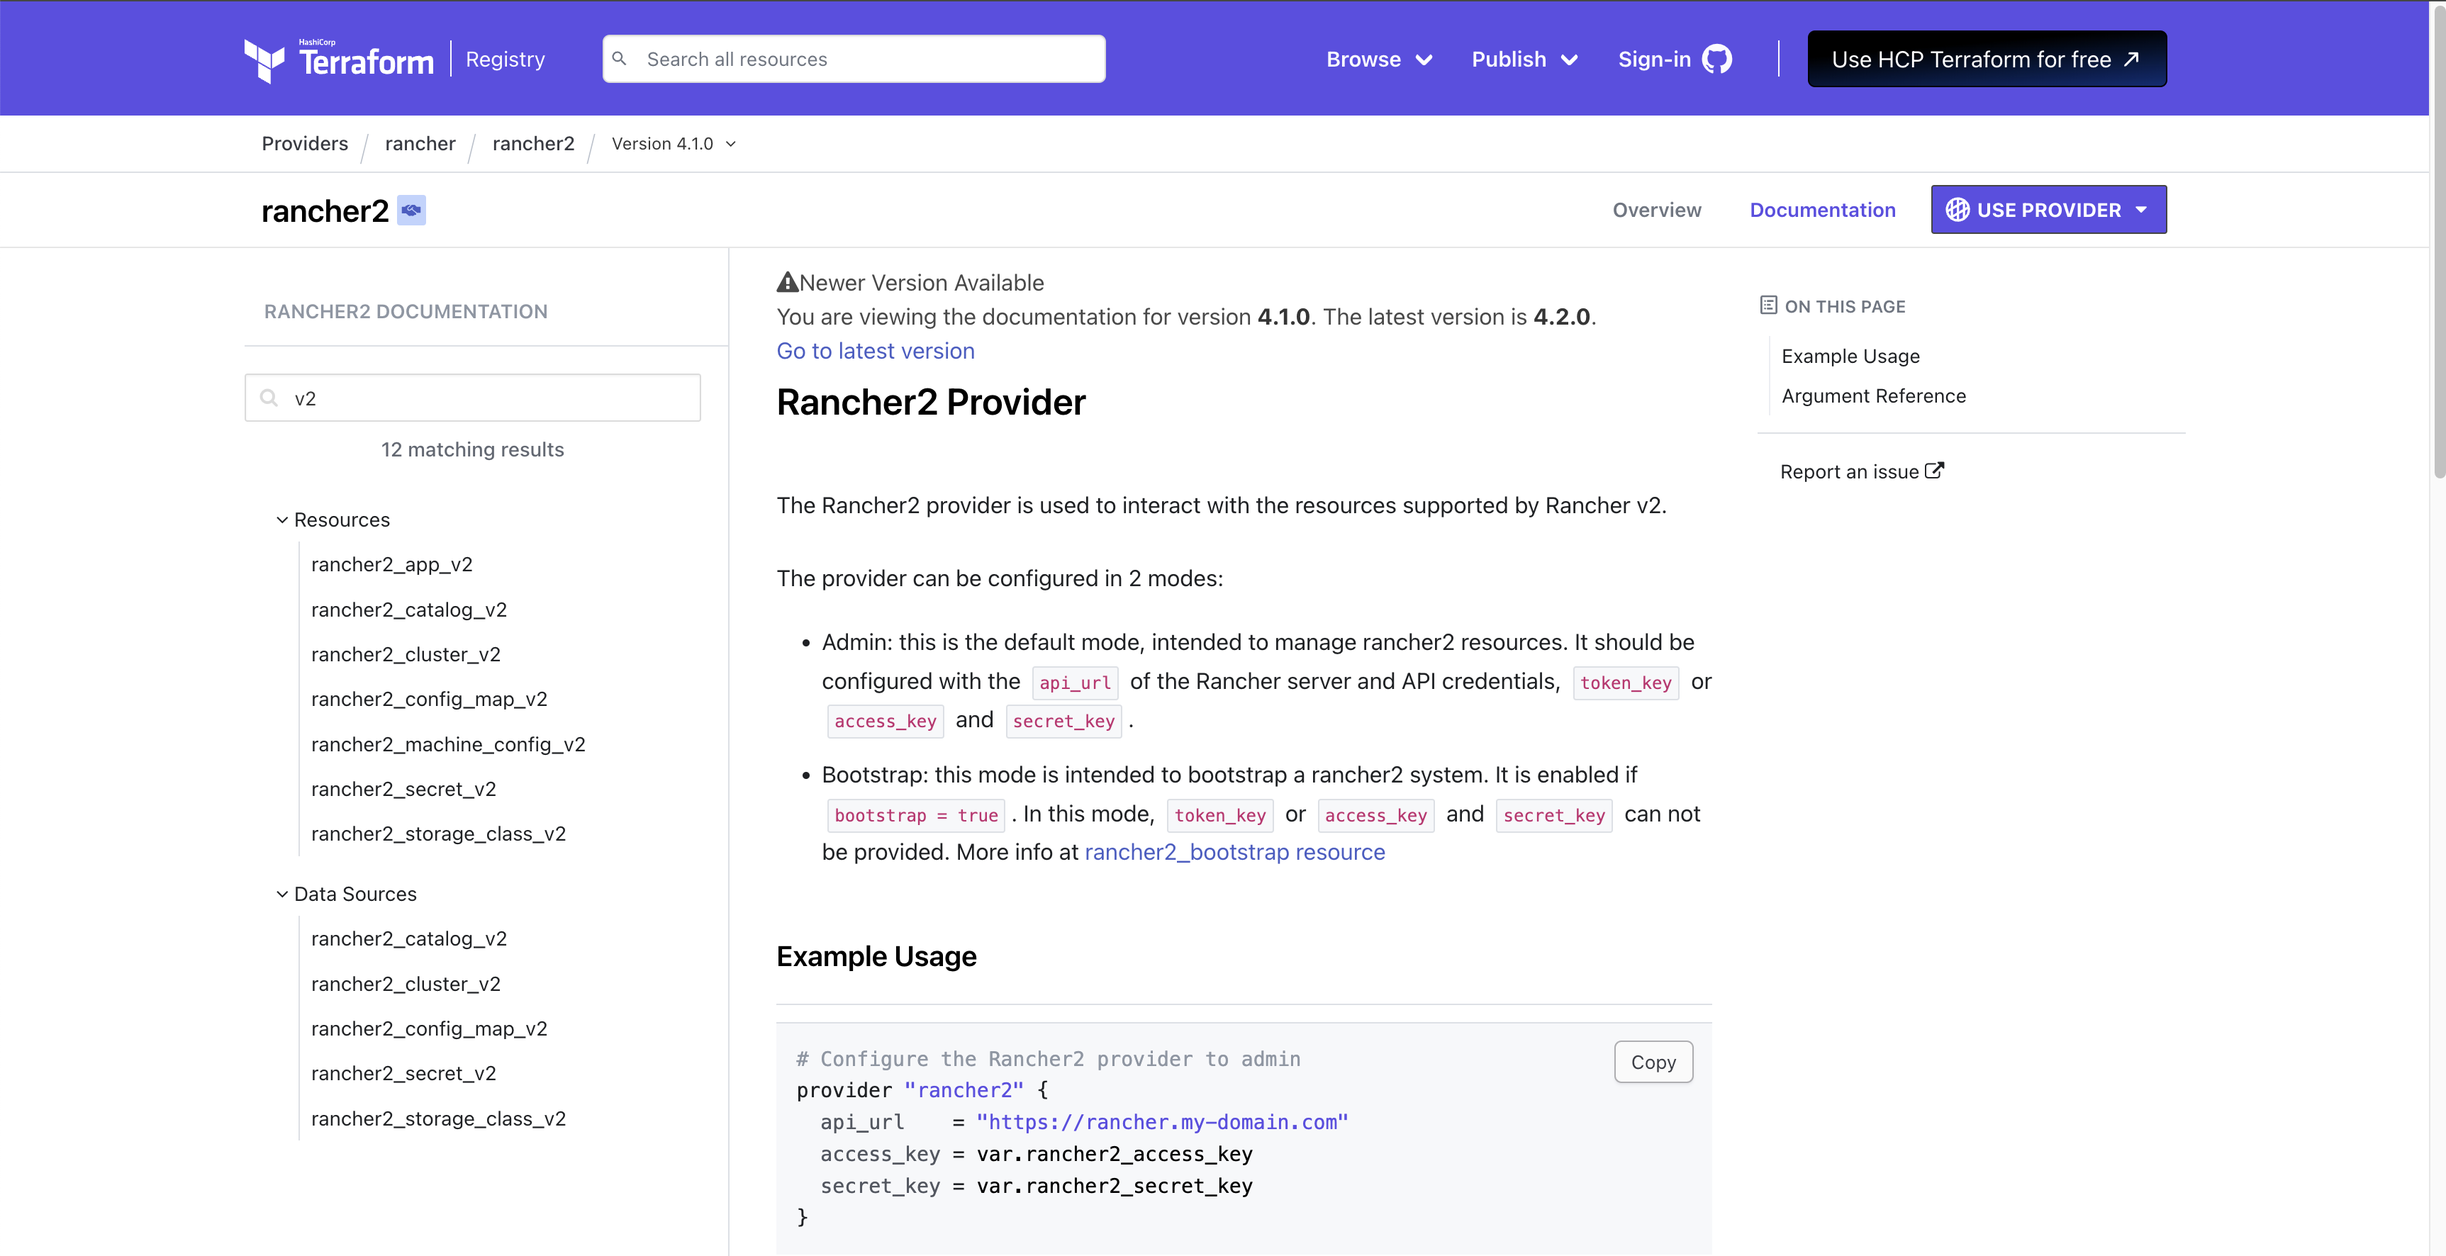
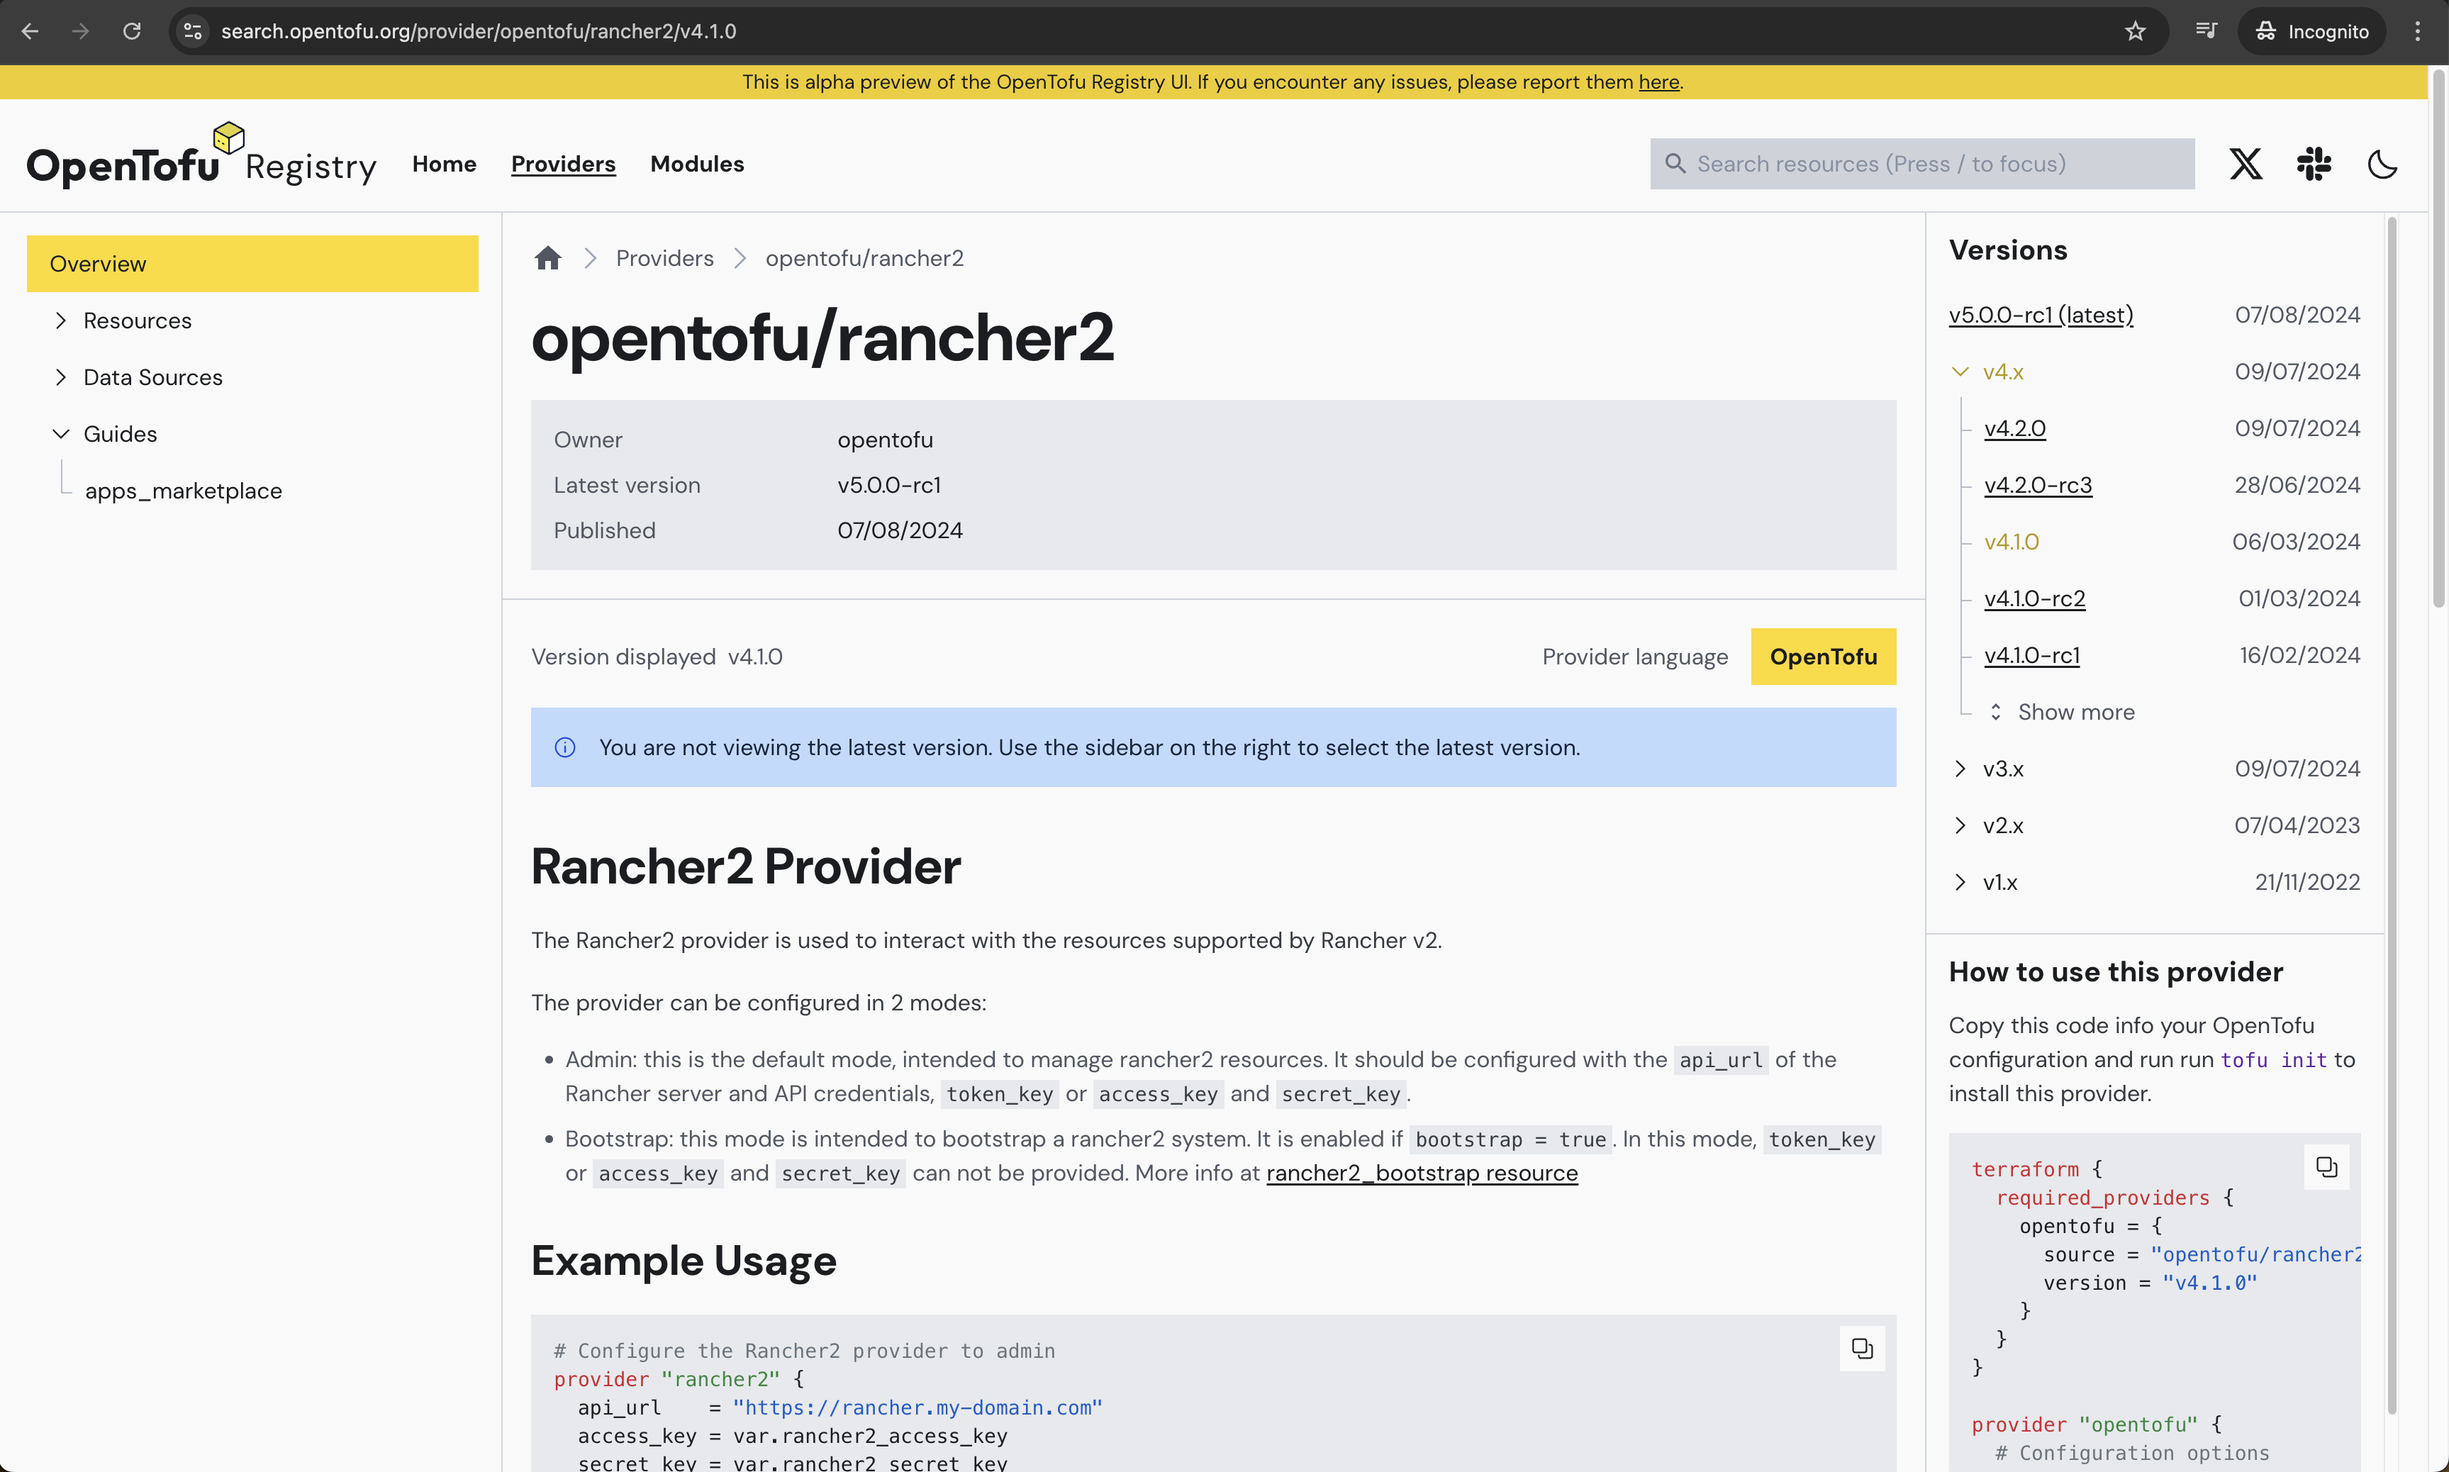
Update the providers and the registry to point to OpenTofu

diff --git a/blog/2024-08-21-opentofu-rke2-cilium-azure/opentofu-rke2-cilium-azure.md b/blog/2024-08-21-opentofu-rke2-cilium-azure/opentofu-rke2-cilium-azure.md
@@ -76,12 +76,16 @@ The `rancher2` provider is supported by OpenTofu. The details can be found [here
 
 ### Step 0.2: Familiarise with Rancher2 Provider
 
-Before we even begin with the actual coding, it is a nice opportunity to familiarise with the [Rancher2 provider](https://registry.terraform.io/providers/rancher/rancher2/4.1.0/docs). For RKE2 clusters, we only care about the `Resources` and `Data Resources` with the extension of `v2` at the end.
+Before we even begin with the actual coding, it is a nice opportunity to familiarise with the [Rancher2 provider](https://search.opentofu.org/provider/opentofu/rancher2/v4.1.0).
 
     ![title image reading "Rancher2 Terraform Provider"](rancher2_tf_provider.png)
 
 :::tip
 Check out the example sections of the resources available and the supported Cloud providers.
+:::
+
+:::warning
+Be mindful this is an alpha preview of the OpenTofu Registry UI. If you encounter any issues, report them [here](https://github.com/opentofu/registry-ui/issues).
 :::
 
 ### Step 0.3: Choose Integrated Development Environment (IDE)
@@ -109,19 +113,20 @@ The `providers.tf` file holds the required providers that will be used for the c
 
 ```hcl
 terraform {
-# Terraform usage: required_version = "~> 1.5.4"
-  # OpenTofu usage
   required_version = "~> 1.8.1"
 
   required_providers {
     rancher2 = {
-      source  = "rancher/rancher2"
+      source  = "opentofu/rancher2"
       version = "4.1.0"
     }
-
     local = {
-      source  = "hashicorp/local"
+      source  = "opentofu/local"
       version = "2.5.1"
+    }
+    http = {
+      source  = "opentofu/http"
+      version = "3.4.4"
     }
   }
 }
@@ -135,14 +140,6 @@ provider "rancher2" {
 
 :::tip
 It is a good practice to avoid specifying sensitive data in the `variables.tf` file. The `providers.tf` file expects the `rancher2_api_url` and `rancher2_token_key` variables. Following the best practices, we can have a file that exports the required variable name and value. From a terminal window, we set the [source](https://www.digitalocean.com/community/tutorials/how-to-read-and-set-environmental-and-shell-variables-on-linux) pointing to the file before performing any IaC actions.
-:::
-
-:::note
-The `required_providers` block is used to specify and configure the providers necessary for a particular module or configuration. Before we define the `rancher2` provider block, we need to ensure it is included in the `required_providers` section. It is a good practice to define the provider versions instead of letting the `OpenTofu` CLI download the latest available. More information can be found [here](https://opentofu.org/docs/language/providers/configuration/).
-:::
-
-:::note
-If you like to run the same `plan` and `apply` with Terraform, just comment out the line `required_version = "~> 1.5.4"` (be mindful about your Terraform binary used) and comment in the OpenTofu one `required_version = "~> 1.8.1"`.
 :::
 
 ## data.tf
@@ -419,8 +416,8 @@ $ tofu apply
 When performing the `tofu init` command, I received the below warning.
 
 ```bash
-- Installing rancher/rancher2 v4.1.0...
-- Installed rancher/rancher2 v4.1.0. Signature validation was skipped due to the registry not containing GPG keys for this provider
+- Installing opentofu/rancher2 v4.1.0...
+- Installed opentofu/rancher2 v4.1.0. Signature validation was skipped due to the registry not containing GPG keys for this provider
 ```
 
 I raised a `GitHub` [issue](https://github.com/rancher/terraform-provider-rancher2/issues/1385) with the Terraform Rancher2 Provider.
